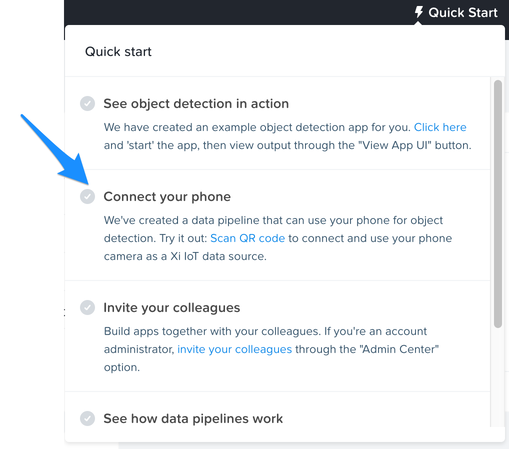
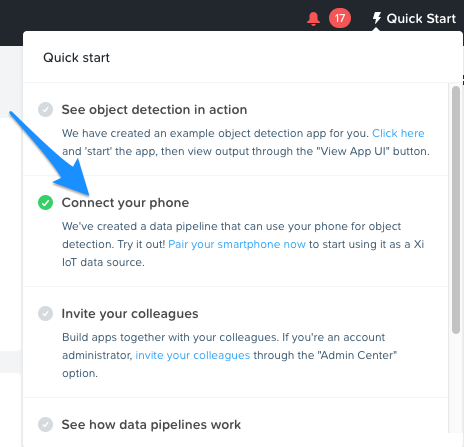
Phone app updates.

diff --git a/index.rst b/index.rst
@@ -22,21 +22,22 @@ The Nutanix Xi IoT platform delivers local compute and AI for IoT edge devices, 
 The Xi IoT platform eliminates complexity, accelerates deployments, and elevates developers to focus on the business logic powering IoT applications and services.
 Now developers can use a low-code development platform to create application software via APIs instead of arduous programming methods.
 
-Xi IoT .NEXT 2019 Hands On Lab
-##############################
+Xi IoT Trial
+############
 
-This Xi IoT Quick Start leverages the Xi IoT .NEXT 2019 HoL. The lab trial is a limited-time, ready-to-deploy
+This Xi IoT Quick Start leverages the Xi IoT Trial. The trial is a limited-time, ready-to-deploy
 implementation of the Xi IoT edge computing
-platform. The Xi IoT .NEXT 2019 HoL provides pre-built applications and data
+platform. The Xi IoT Trial provides pre-built applications and data
 connectors hosted on its own infrastructure. This instant architecture demonstrates how 
 to quickly develop and test IoT applications in the cloud for seamless deployment to the edge.
 
 Nutanix has already created the basic infrastructure you need to get
 started.
 
-**What's In the Xi IoT .NEXT 2019 HoL?**
+**What's In the Xi IoT Trial?**
 
-1. Xi IoT management console, which provides the base for your Xi IoT lab.
+1. Xi IoT management console, which provides the base for your Xi IoT
+   trial.
 
 2. A Starter project that includes:
 
@@ -52,7 +53,7 @@ started.
 
 ..
 
-**What Can I Do with the Xi IoT .NEXT 2019 HoL?**
+**What Can I Do with the Xi IoT Trial?**
 
 -  Stream video from YouTube-8M video or your smartphone to the Xi Cloud
    edge.
@@ -65,23 +66,27 @@ started.
 
 ..
 
-Signing Up For the Xi IoT .NEXT 2019 HoL
-++++++++++++++++++++++++++++++++++++++++
+Signing Up For the Xi IoT Trial
++++++++++++++++++++++++++++++++
 
-**As a .NEXT 2019 attendee, you're being provided a sneak peak into the next version of Xi IoT. This means you must create an account and login to special "stage" servers.** 
+Do any of these steps to sign up for the Xi IoT Trial.
 
-Do these steps to sign up for the Xi IoT .NEXT 2019 HoL.
+a. Click Start Trial at https://www.nutanix.com/products/iot/ or
+   `https://iot.nutanix.com <https://iot.nutanix.com/>`__.
 
-#. Sign up now for a **Stage My Nutanix** account at `https://stage-my.nutanix.com/#signup <https://stage-my.nutanix.com/#signup>`__ and activate it by following the link in your email.
+b. Sign up now for a My Nutanix account at
+   `https://my.nutanix.com <https://my.nutanix.com/>`__.
 
-#. Once activated, log on to
-   `https://stage.ntnxsherlock.com <https://stage.ntnxsherlock.com/>`__ by clicking on Log in with My Nutanix, and entering the Stage My Nutanix account credentials you just created.
+c. If you already have an account, log on to
+   `https://my.nutanix.com <https://my.nutanix.com/>`__ with your
+   existing account credentials and click Learn More in the Xi IoT
+   panel.
 
-   **DO NOT CLICK ON START TRIAL**
+..
 
 SUPPORT FOR AND LEARNING MORE ABOUT XI IOT
 
-The most support for the Xi IoT .NEXT 2019 HoL is available through the
+The most support for the Xi IoT trial is available through the
 Nutanix Next Xi IoT trial forum. Nutanix asks that you share your
 experiences and lessons learned with your fellow users.
 
@@ -104,31 +109,27 @@ IoT.
    documentation <https://portal.nutanix.com/?filterKey#type&filterVal#Xi#/page/docs/list>`__.
 
 
-Getting Started With the Xi IoT .NEXT 2019 HoL
-++++++++++++++++++++++++++++++++++++++++++++++
+Getting Started With the Xi IoT Trial
++++++++++++++++++++++++++++++++++++++
 
-1. Log on to the Stage Xi IoT management console.
+1. Log on to the Xi IoT management console.
 
 2. Have a YouTube-8M URL handy or create and upload a video from your
    smartphone.
 
 3. On your smartphone, download the Xi IoT Sensor app (available from the
-   Google Play Store).
+   Google Play Store or Apple App Store).
 
 Logging On to the Xi IoT Console
 --------------------------------
 
 Before you begin:
 
-**As a .NEXT 2019 attendee, you're being provided a sneak peak into the next version of Xi IoT. This means you must create an account and login to special "stage" servers.** 
-
 Supported web browsers include the current and two previous versions of
 Google Chrome. You'll need your My Nutanix credentials for this step.
   
-1. Open https://stage.ntnxsherlock.com in a web browser, click **Log in with
-   My Nutanix** and log on with your **Stage My Nutanix** credentials.
-
-   **DO NOT CLICK ON START TRIAL**
+1. Open https://iot.nutanix.com/ in a web browser, click **Log in with
+   My Nutanix** and log on with your My Nutanix credentials.
 
 2. If you are logging on for the first time, click to read the Terms and Conditions, then click to Accept and Continue.
 
@@ -159,26 +160,26 @@ Using the Xi IoT Sensor App to Detect Objects in Your Smartphone Video
 
 About this task
 
-Connect your Android based phone (iPhone coming soon) as a data source to stream video and perform
+Connect your Android or iOS based phone as a data source to stream video and perform
 object detection in near realtime using Xi IoT. Output can be viewed on your phone
 and from an HTTP Live Stream (HLS) in your browser.
    
-#. If you are not logged on, open https://stage.ntnxsherlock.com/ in a web
+#. If you are not logged on, open https://iot.nutanix.com/ in a web
    browser and log in.
 
 #. Connect your phone through the Quick Start menu.
 
-   a. Click Quick Start, then click **Scan QR code** to connect a phone.
+   a. Click Quick Start, then click **Pair your smartphone now** to connect a phone.
 
    .. figure:: contents/images/image5.png
 
       Figure 1: Quick Start: Phone as Data Source
       
-   b. Open the Google Play Store on your Android based phone, search for Xi IoT Sensor, 
+   b. Open the Google Play Store or App Store on your phone, search for Xi IoT Sensor, 
       and install the app on your phone.
 
-   c. After downloading and installing the Xi IoT Sensor app, open it, tap the Xi IoT icon ten (10) times to switch its connection to
-      the stage server, then scan the QR code to authenticate.
+   c. After downloading and installing the Xi IoT Sensor app, scan the QR code
+      to authenticate (Android users), or log in with your My Nutanix credentials (iPhone).
 
    d. Enter a name for your phone, then click Next.
    
@@ -211,7 +212,7 @@ recommend a short video showing city scenes, drone footage, or a
 sporting event.
 
 
-#. If you are not logged on, open https://stage.ntnxsherlock.com/ in a web
+#. If you are not logged on, open https://iot.nutanix.com/ in a web
    browser and log in.
 
 #. Click :fa:`bars` **> Apps and Data > Applications**.
@@ -253,7 +254,7 @@ About this task
 
 Use data pipelines and two YouTube-8M videos to demonstrate object detection using only python code in Xi IoT.
 
-#. If you are not logged on, open https://stage.ntnxsherlock.com/ in a web
+#. If you are not logged on, open https://iot.nutanix.com/ in a web
    browser and log in.
 
 #. Click :fa:`bars` **> Apps and Data > Data Pipelines**.
@@ -361,7 +362,7 @@ About this task
 Learn more about using your phone or a YouTube-8M video as a data source, and a HTTP Live Stream as output when writing your own applications for Xi IoT by
 exploring the echoapp sample application provided in the Application Library.
 
-#. If you are not logged on, open https://stage.ntnxsherlock.com/ in a web
+#. If you are not logged on, open https://iot.nutanix.com/ in a web
    browser and log in.
 
 #. Click :fa:`bars` **> Apps and Data > Applications**.
@@ -407,7 +408,7 @@ About this task
 
 Use data pipelines and a YouTube-8M video to demonstrate object detection using the Xi IoT AI Inferencing Service.
 
-#. If you are not logged on, open https://stage.ntnxsherlock.com/ in a web
+#. If you are not logged on, open https://iot.nutanix.com/ in a web
    browser and log in.
 
 #. Click :fa:`bars` **> Apps and Data > Data Pipelines**.
